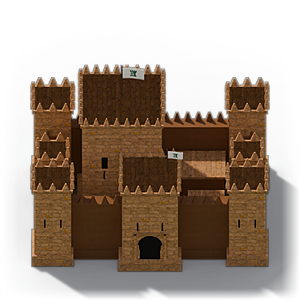
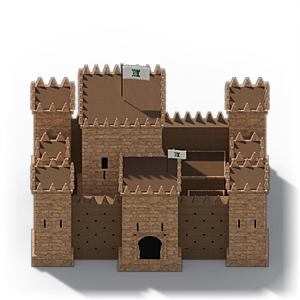
Graphismes 3D : point d'étape (prototype révisé, scripts terrains, engins, planches)
Claude-Session: https://claude.ai/code/session_013imxrBtnjcaCcqsphPahqh

Changed region(s): [[0.09, 0.21, 0.9, 0.9]]

diff --git a/assets/images/td/sprites.js b/assets/images/td/sprites.js
@@ -2,9 +2,19 @@
 // Fichier généré par atelier/outils/rendu-3d/ : ne pas modifier à la main (chaque script réécrit ses entrées).
 // w, h : taille logique d'une image (px du canevas 1000 × 660) ; ax, ay : point d'ancrage dans l'image,
 // en px logiques depuis le coin haut-gauche ; frames : nombre d'images côte à côte (bande horizontale).
+// Les entrées « ombre-... » sont les ombres portées des tours et des places fortes : même point d'ancrage que
+// le sprite, à dessiner dans une passe « sol », sous tous les sprites (après le terrain).
 window.JEU = window.JEU || {};
 JEU.SPRITES = {
   "place-angleterre-intact": {"src": "assets/images/td/place-angleterre-intact.png", "w": 150, "h": 150, "ax": 75, "ay": 132, "frames": 1},
   "place-france-intact": {"src": "assets/images/td/place-france-intact.png", "w": 150, "h": 150, "ax": 75, "ay": 132, "frames": 1},
-  "place-omeyyades-intact": {"src": "assets/images/td/place-omeyyades-intact.png", "w": 150, "h": 150, "ax": 75, "ay": 132, "frames": 1}
+  "place-omeyyades-intact": {"src": "assets/images/td/place-omeyyades-intact.png", "w": 150, "h": 150, "ax": 75, "ay": 132, "frames": 1},
+  "tour-archers-angleterre-1": {"src": "assets/images/td/tour-archers-angleterre-1.png", "w": 70, "h": 84, "ax": 35, "ay": 72, "frames": 1},
+  "tour-archers-france-1": {"src": "assets/images/td/tour-archers-france-1.png", "w": 70, "h": 84, "ax": 35, "ay": 72, "frames": 1},
+  "tour-archers-france-2": {"src": "assets/images/td/tour-archers-france-2.png", "w": 70, "h": 84, "ax": 35, "ay": 72, "frames": 1},
+  "tour-archers-france-3": {"src": "assets/images/td/tour-archers-france-3.png", "w": 70, "h": 84, "ax": 35, "ay": 72, "frames": 1},
+  "tour-archers-omeyyades-1": {"src": "assets/images/td/tour-archers-omeyyades-1.png", "w": 70, "h": 84, "ax": 35, "ay": 72, "frames": 1},
+  "unite-cavaliers-angleterre": {"src": "assets/images/td/unite-cavaliers-angleterre.png", "w": 40, "h": 40, "ax": 20, "ay": 36, "frames": 4},
+  "unite-fantassins-france": {"src": "assets/images/td/unite-fantassins-france.png", "w": 40, "h": 40, "ax": 20, "ay": 36, "frames": 4},
+  "unite-pietaille-omeyyades": {"src": "assets/images/td/unite-pietaille-omeyyades.png", "w": 40, "h": 40, "ax": 20, "ay": 36, "frames": 4}
 };
